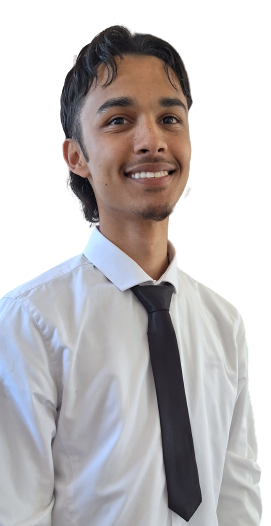
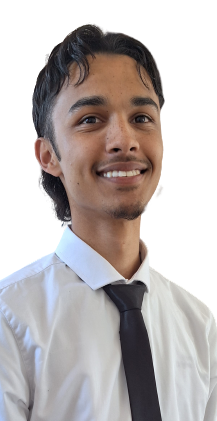
check

diff --git a/index.html b/index.html
@@ -21,7 +21,7 @@
 <body>
 
   <!-- Navbar with Logo -->
-  <nav class="navbar navbar-expand-lg navbar-dark bg-gradient w-100 " >
+  <nav class="navbar container-fluid navbar-expand-lg navbar-dark bg-gradient w-100 " >
     <div class="container-fluid">
         <img src="/assets/header-logo.png" alt="logo" width="230px" height="150px" id="nav-image" >
         <button type="button" class="navbar-toggler" data-bs-toggle="collapse" data-bs-target="#navbarCollapse">
@@ -52,10 +52,10 @@
  </section>
 
 <!-- About Me -->
-<section class="container-fluid p-4" id="aboutme" >
+<section class="container-fluid p-4" id="about" >
   <h1 class="heading">About Me</h1>
   <div class="about">
-  <img src="/assets/me.png" alt="My Picture">
+  <img src="https://i.postimg.cc/FRkg2D3C/me.png" alt="My Picture">
   <div class="name">
       <h2>I'm Niyaaz Daniels</h2>
       <p> Hi, my name is Niyaaz Daniels, I am 25 years old, I am young, enthusiastic, energetic and hard working
@@ -107,64 +107,71 @@
             <div>
                 <h3 class="card-title">Calculator</h3>
                 <div class="card-content">
+                  <img src="https://i.postimg.cc/rsXKyg6Z/calculator-removebg-preview.png" alt="calculator" class="img-fluid">
                 </div>
             </div>
             <div class="card-link-wrapper">
                 <a href="https://github.com/niyaazdaniels/Calculator-Home.git" class="card-link"><i class="fa-brands fa-github"></i></a>
-                <a href="" class="card-link"><i class="fa-solid fa-globe"></i></a>
+                <a href="https://niyaazdaniels-calculator.netlify.app" class="card-link"><i class="fa-solid fa-globe"></i></a>
             </div></li>
               <!-- second project -->
         <li class="card">
             <div>
                 <h3 class="card-title">Keyboard</h3>
                 <div class="card-content">
-                    <p>Lorem ipsum dolor sit amet consectetur adipisicing elit. Ab repudiandae magnam harum natus fuga et repellat in maiores.</p></div>
+                  <img src="https://i.postimg.cc/MTkW1Tsv/keyboard-removebg-preview.png" alt="keyboard" class="img-fluid">
+                  </div>
             </div>
             <div class="card-link-wrapper">
-                <a href="" class="card-link"><i class="fa-brands fa-github"></i></i></a>
-                <a href="" class="card-link"><i class="fa-solid fa-globe"></i></a>
+                <a href="https://github.com/niyaazdaniels/Keyboard.git" class="card-link"><i class="fa-brands fa-github"></i></i></a>
+                <a href="https://niyaazdaniels-keyboard.netlify.app" class="card-link"><i class="fa-solid fa-globe"></i></a>
             </div></li>
               <!-- third project -->
         <li class="card">
             <div>
                 <h3 class="card-title">Netflix</h3>
                 <div class="card-content">
-                    <p>Phasellus ultrices lorem vel bibendum ultricies. In hendrerit nulla a ante dapibus pulvinar eu eget quam.</p>
+                  <img src="https://i.postimg.cc/yxZcvkKt/Netflix-removebg-preview.png" alt="Netflix" class="img-fluid">
                 </div>
             </div>
             <div class="card-link-wrapper">
-                <a href="" class="card-link"><i class="fa-brands fa-github"></i></a>
-                <a href="" class="card-link"><i class="fa-solid fa-globe"></i></a>
+                <a href="https://github.com/niyaazdaniels/Netflix.git" class="card-link"><i class="fa-brands fa-github"></i></a>
+                <a href="https://niyaazdaniels-netflix.netlify.app" class="card-link"><i class="fa-solid fa-globe"></i></a>
             </div></li>
               <!-- fourth project -->
         <li class="card">
             <div>
                 <h3 class="card-title">Ecommerce</h3>
                 <div class="card-content">
-                    <p>Aenean posuere mauris quam, pellentesque auctor mi bibendum nec. Sed scelerisque lacus nisi, quis auctor lorem ornare vel.</p>
+                  <img src="https://i.postimg.cc/tJK3Vthc/Ecommerce-removebg-preview.png" alt="BobsBakery" class="img-fluid">
                 </div>
             </div>
             <div class="card-link-wrapper">
-                <a href="" class="card-link"><i class="fa-brands fa-github"></i></a>
-                <a href="" class="card-link"><i class="fa-solid fa-globe"></i></a>
+                <a href="https://github.com/niyaazdaniels/ecommerce-website.git" class="card-link"><i class="fa-brands fa-github"></i></a>
+                <a href="https://ecommerce-module1-niyaazdaniels.netlify.app" class="card-link"><i class="fa-solid fa-globe"></i></a>
             </div></li>
              <!-- fifth project -->
         <li class="card">
             <div>
                 <h3 class="card-title">Bobs Clothing</h3>
                 <div class="card-content">
-                    <p>Vestibulum pharetra fringilla felis sit amet tempor. Interdum et malesuada fames ac ante ipsum primis in faucibus. Cras et arcu sit amet est consequat feugiat. Nam ut sapien pulvinar.</p>
+                  <img src="https://i.postimg.cc/tJSwtvX2/Bobs-Clothing-removebg-preview.png" alt="BobsClothing" class="img-fluid">
                 </div>
             </div>
             <div class="card-link-wrapper">
-                <a href="" class="card-link"><i class="fa-brands fa-github"></i></a>
-                <a href="" class="card-link"><i class="fa-solid fa-globe"></i></a>
+                <a href="https://github.com/niyaazdaniels/ecommerce-home.git" class="card-link"><i class="fa-brands fa-github"></i></a>
+                <a href="https://elaborate-kringle-f401f5.netlify.app" class="card-link"><i class="fa-solid fa-globe"></i></a>
             </div></li>
         <li class="card">
             <div>
                 <h3 class="card-title">Project 6</h3>
                 <div class="card-content">
-                    <p>Donec ut tincidunt nisl. Vivamus eget eros id elit feugiat mollis. Nam sed sem quis libero finibus tempor.</p></div>
+                  <div class="text-center">
+                    <div class="spinner-border" role="status">
+                      <span class="visually-hidden">Loading...</span>
+                    </div>
+                  </div>
+                  </div>
             </div>
             <div class="card-link-wrapper">
                 <a href="" class="card-link"><i class="fa-brands fa-github"></i></a>
@@ -196,7 +203,7 @@
         <div class="col-md-4">
             <div class="card p-3 text-center px-3">
                 <div class="user-image">
-            <img src="/assets/Daanyaal.png" class="rounded-circle" width="50">
+            <img src="https://i.postimg.cc/br6M36hC/Daanyaal.png" class="rounded-circle" width="50">
                 </div>
                 <div class="user-content">
                     <h5 class="mb-0">Daanyaal</h5>
@@ -209,7 +216,7 @@
         <div class="col-md-4">
             <div class="card p-3 text-center px-3">
                 <div class="user-image">
-            <img src="/assets/joel.png" class="rounded-circle" width="50">
+            <img src="https://i.postimg.cc/0Ncp6hdB/joel.png" class="rounded-circle" width="50">
                 </div>
                 <div class="user-content">
                     <h5 class="mb-0">Joel</h5>
@@ -238,15 +245,15 @@
         <div class="rows">
           <!-- First Image -->
           <div class="col-md" id="skill-logo">
-         <a href="https://www.w3schools.com/html/"><img src="/assets/HTML 5 - Logo.png" width="120px" height="100px"alt="HTML5" ></a>
+        <img src="https://i.postimg.cc/FKfzhqzv/Bootstrap-5-Logo.png" width="120px" height="100px"alt="HTML5" >
         </div>
         <!-- Second Image -->
           <div class="col-md" id="skill-logo">
-          <a href="https://www.w3schools.com/css/"><img src="/assets/CSS - Logo.png" alt="CSS" width="120px" height="100px"></a> 
+       <img src="https://i.postimg.cc/mZFbhCTY/CSS-Logo.png" alt="CSS" width="120px" height="100px">
         </div>
         <!-- Third Image -->
           <div class="col-md" id="skill-logo">
-           <a href="https://getbootstrap.com/"><img src="/assets/Bootstrap 5 - Logo.png" alt="Bootstrap" width="120px" height="100px"></a>
+           <img src="https://i.postimg.cc/NFQphR43/HTML-5-Logo.png" alt="Bootstrap" width="120px" height="100px">
         </div>
         </div>
     </div>

diff --git a/CSS/style.css b/CSS/style.css
@@ -61,14 +61,13 @@ body {
 /* container */
 #home-container {
     position: absolute;
-    left: 70px;
+    left: 0px;
     top: 330px;
     font-weight: bolder;
 }
 @media (max-width:300px) {
     #home-container {
         display: block;
-
     }
     #home-container h1{
         font-size: 16px;
@@ -98,6 +97,7 @@ body {
 #about h1 {
     color:black ;
     margin: 55px;
+    text-align: center;
 }
 .about {
     display: flex;
@@ -105,19 +105,24 @@ body {
     margin-bottom: 20px;
 }
 .about img {
-    width: 500px;
-    height: 400px;
+    width: 300px;
+    height: 350px;
     padding: 0px 30px;
     align-items: center;
 }
 .name {
     padding: 10px;
+    border: none;
+    border-radius: 10px;
+    box-shadow: 4px 8px 16px rgb(72, 72, 72);
+    width: 800px;
+    background-color: var(--something);
 }
 .name h2{
-    font-size: 2rem;
+    font-size: 1.6rem;
 }
 .name p{
-    font-size: 1.2rem;
+    font-size: 1rem;
 }
 @media (max-width:300px) {
    
@@ -151,7 +156,7 @@ body {
 
 /* Experience Section */
 #experience {
-    height: 800px;
+    height: 600px;
     width: 100%;
     overflow-y: hidden;
 }
@@ -164,7 +169,7 @@ body {
 /* Experience Box */
 .box {
     width: 400px;
-    height: auto;
+    height: 500px;
     background-color: rgb(72, 72, 72);
     border-radius: 20px;
     padding: 20px;
@@ -210,7 +215,7 @@ body {
 /* Projects Section */
 .container {
     max-width: 1400px;
-    height: 750px;
+    height: 500px;
     padding: 0 15px;
     margin: 0 auto;
 }
@@ -233,7 +238,7 @@ h2 {
 .card {
     display: flex;
     flex-direction: column;
-    padding: 20px;
+    padding: 15px;
     background: var(--offWhite);
     border-radius: 12px;
     box-shadow: 0 5px 15px rgba(0, 0, 0, 15%);
@@ -248,12 +253,18 @@ h2 {
 /* card heading */
 .card .card-title {
     font-size: 20px;
+    text-align: center;
 }
 
 .card .card-link-wrapper {
     margin-top: auto;
-    gap: 1;
+
+    text-align: center;
 }
+.card-content{
+    text-align: center;
+}
+
 /* link within cards i.e Github and Netlify */
 .card .card-link {
     display: inline-block;
@@ -405,10 +416,10 @@ h2 {
 .input {
     padding: 15px 20px;
     margin: 15px;
-    width: 40%;
+    width: 30%;
     border: none;
     outline: none;
-    border-radius: 30px;
+    border-radius: 20px;
 }
 /* Text Area */
 #message {
@@ -418,9 +429,9 @@ h2 {
 }
 /* Button */
 #Submit {
-    padding: 15px 20px;
+    padding: 1px 20px;
     margin: 30px;
-    width: 15%;
+    width: 10%;
     border-radius: 30px;
     background-color: #000000dc;
     color: white;
